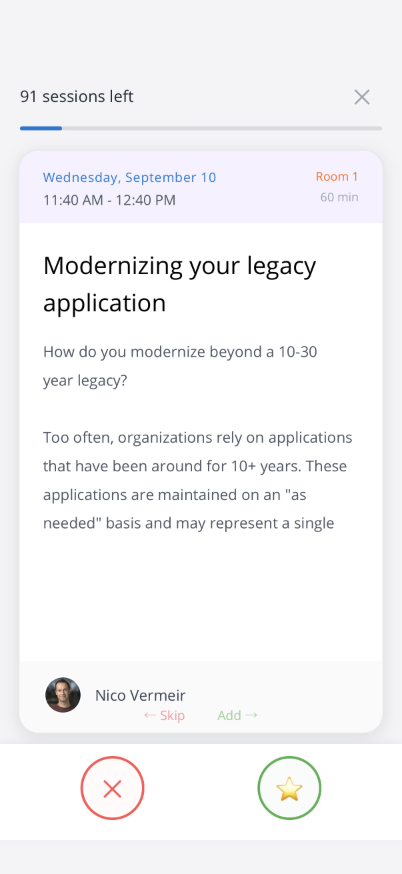
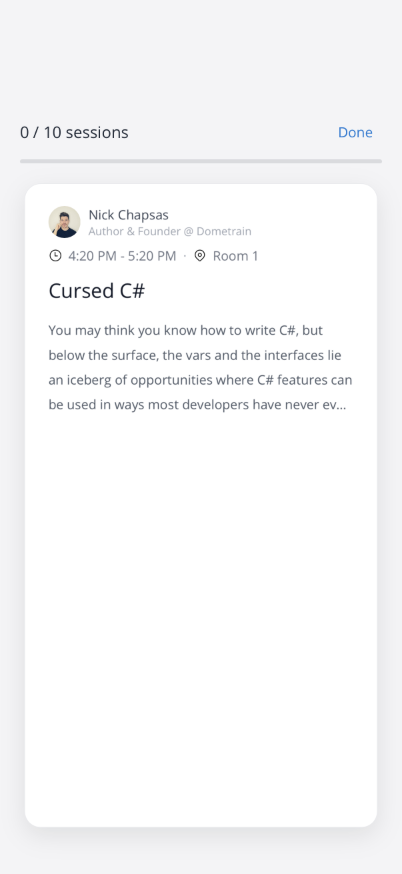
Restore QuickPick bottom action bar (skip/undo/add buttons)

Changed region(s): [[0.0597, 0.0927, 0.9254, 0.6178], [0.0896, 0.7723, 0.9254, 0.9577]]

diff --git a/src/Conference.Maui/Pages/OnboardingPage.xaml b/src/Conference.Maui/Pages/OnboardingPage.xaml
@@ -418,7 +418,7 @@
 
         <!-- STEP 3: Quick Pick -->
         <Grid IsVisible="False" x:Name="QuickPickStep"
-              RowDefinitions="Auto,*" Padding="0"
+              RowDefinitions="Auto,*,Auto" Padding="0"
               Background="{AppThemeBinding Light={StaticResource Gray100}, Dark={StaticResource Gray950}}"
               SafeAreaEdges="Container">
 
@@ -554,6 +554,58 @@
                     </swipe:SwipeCardView.ItemTemplate>
                 </swipe:SwipeCardView>
 
+            </Grid>
+
+            <Grid x:Name="QuickPickBottomBar" Grid.Row="2" Padding="20,8,20,32" ColumnDefinitions="Auto,*,Auto">
+                <!-- Skip button -->
+                <Border x:Name="OnboardingSkipButton"
+                        StrokeShape="RoundRectangle 28"
+                        StrokeThickness="1.5"
+                        Stroke="{AppThemeBinding Light={StaticResource Gray300}, Dark={StaticResource Gray600}}"
+                        BackgroundColor="{AppThemeBinding Light={StaticResource White}, Dark={StaticResource Gray900}}"
+                        HeightRequest="56" WidthRequest="56"
+                        HorizontalOptions="Center" VerticalOptions="Center">
+                    <Border.GestureRecognizers>
+                        <TapGestureRecognizer Tapped="OnQuickPickSkipTapped" />
+                    </Border.GestureRecognizers>
+                    <Image Source="{mi:Fluent Icon=Dismiss24, IconColor={AppThemeBinding Light={StaticResource Gray500}, Dark={StaticResource Gray400}}}"
+                           HeightRequest="24" WidthRequest="24"
+                           HorizontalOptions="Center" VerticalOptions="Center" />
+                </Border>
+
+                <!-- Undo button -->
+                <Border Grid.Column="1"
+                        StrokeShape="RoundRectangle 22"
+                        StrokeThickness="0"
+                        BackgroundColor="Transparent"
+                        HeightRequest="44" WidthRequest="44"
+                        HorizontalOptions="Center" VerticalOptions="Center"
+                        Opacity="{Binding ShowUndo, Converter={toolkit:BoolToObjectConverter TrueObject=1, FalseObject=0.3}}"
+                        InputTransparent="{Binding ShowUndo, Converter={toolkit:InvertedBoolConverter}}">
+                    <Border.GestureRecognizers>
+                        <TapGestureRecognizer Tapped="OnQuickPickUndoTapped" />
+                    </Border.GestureRecognizers>
+                    <Image Source="{mi:Fluent Icon=ArrowUndo24, IconColor={StaticResource Primary}}"
+                           HeightRequest="22" WidthRequest="22"
+                           HorizontalOptions="Center" VerticalOptions="Center" />
+                </Border>
+
+                <!-- Add button -->
+                <Border x:Name="OnboardingAddButton"
+                        Grid.Column="2"
+                        StrokeShape="RoundRectangle 28"
+                        StrokeThickness="1.5"
+                        Stroke="{StaticResource Primary}"
+                        BackgroundColor="{AppThemeBinding Light={StaticResource White}, Dark={StaticResource Gray900}}"
+                        HeightRequest="56" WidthRequest="56"
+                        HorizontalOptions="Center" VerticalOptions="Center">
+                    <Border.GestureRecognizers>
+                        <TapGestureRecognizer Tapped="OnQuickPickAddTapped" />
+                    </Border.GestureRecognizers>
+                    <Image Source="{mi:Fluent Icon=Heart24, IconColor={StaticResource Primary}}"
+                           HeightRequest="24" WidthRequest="24"
+                           HorizontalOptions="Center" VerticalOptions="Center" />
+                </Border>
             </Grid>
         </Grid>
 

diff --git a/src/Conference.Maui/Pages/OnboardingPage.xaml.cs b/src/Conference.Maui/Pages/OnboardingPage.xaml.cs
@@ -218,11 +218,15 @@ public partial class OnboardingPage : ContentPage
                 {
                     likeFrame.Opacity = Math.Min(dragPercent, 1.0);
                     nopeFrame.Opacity = 0;
+                    OnboardingAddButton.Scale = 1.0 + (Math.Min(dragPercent, 1.0) * 0.15);
+                    OnboardingSkipButton.Scale = 1.0;
                 }
                 else if (dragPercent < 0)
                 {
                     nopeFrame.Opacity = Math.Min(Math.Abs(dragPercent), 1.0);
                     likeFrame.Opacity = 0;
+                    OnboardingSkipButton.Scale = 1.0 + (Math.Min(Math.Abs(dragPercent), 1.0) * 0.15);
+                    OnboardingAddButton.Scale = 1.0;
                 }
                 break;
 
@@ -230,8 +234,27 @@ public partial class OnboardingPage : ContentPage
             case DraggingCardPosition.FinishedUnderThreshold:
                 likeFrame.Opacity = 0;
                 nopeFrame.Opacity = 0;
+                OnboardingAddButton.ScaleTo(1.0, 150, Easing.CubicOut);
+                OnboardingSkipButton.ScaleTo(1.0, 150, Easing.CubicOut);
                 break;
         }
+    }
+
+    private void OnQuickPickSkipTapped(object? sender, TappedEventArgs e)
+    {
+        OnboardingSwipeCards.InvokeSwipe(SwipeCardDirection.Left);
+    }
+
+    private void OnQuickPickAddTapped(object? sender, TappedEventArgs e)
+    {
+        OnboardingSwipeCards.InvokeSwipe(SwipeCardDirection.Right);
+    }
+
+    private async void OnQuickPickUndoTapped(object? sender, TappedEventArgs e)
+    {
+        var success = OnboardingSwipeCards.GoBack(animated: true);
+        if (success)
+            await _viewModel.UndoLastSwipeCommand.ExecuteAsync(null);
     }
 
     private void OnViewAgendaClicked(object? sender, EventArgs e)
